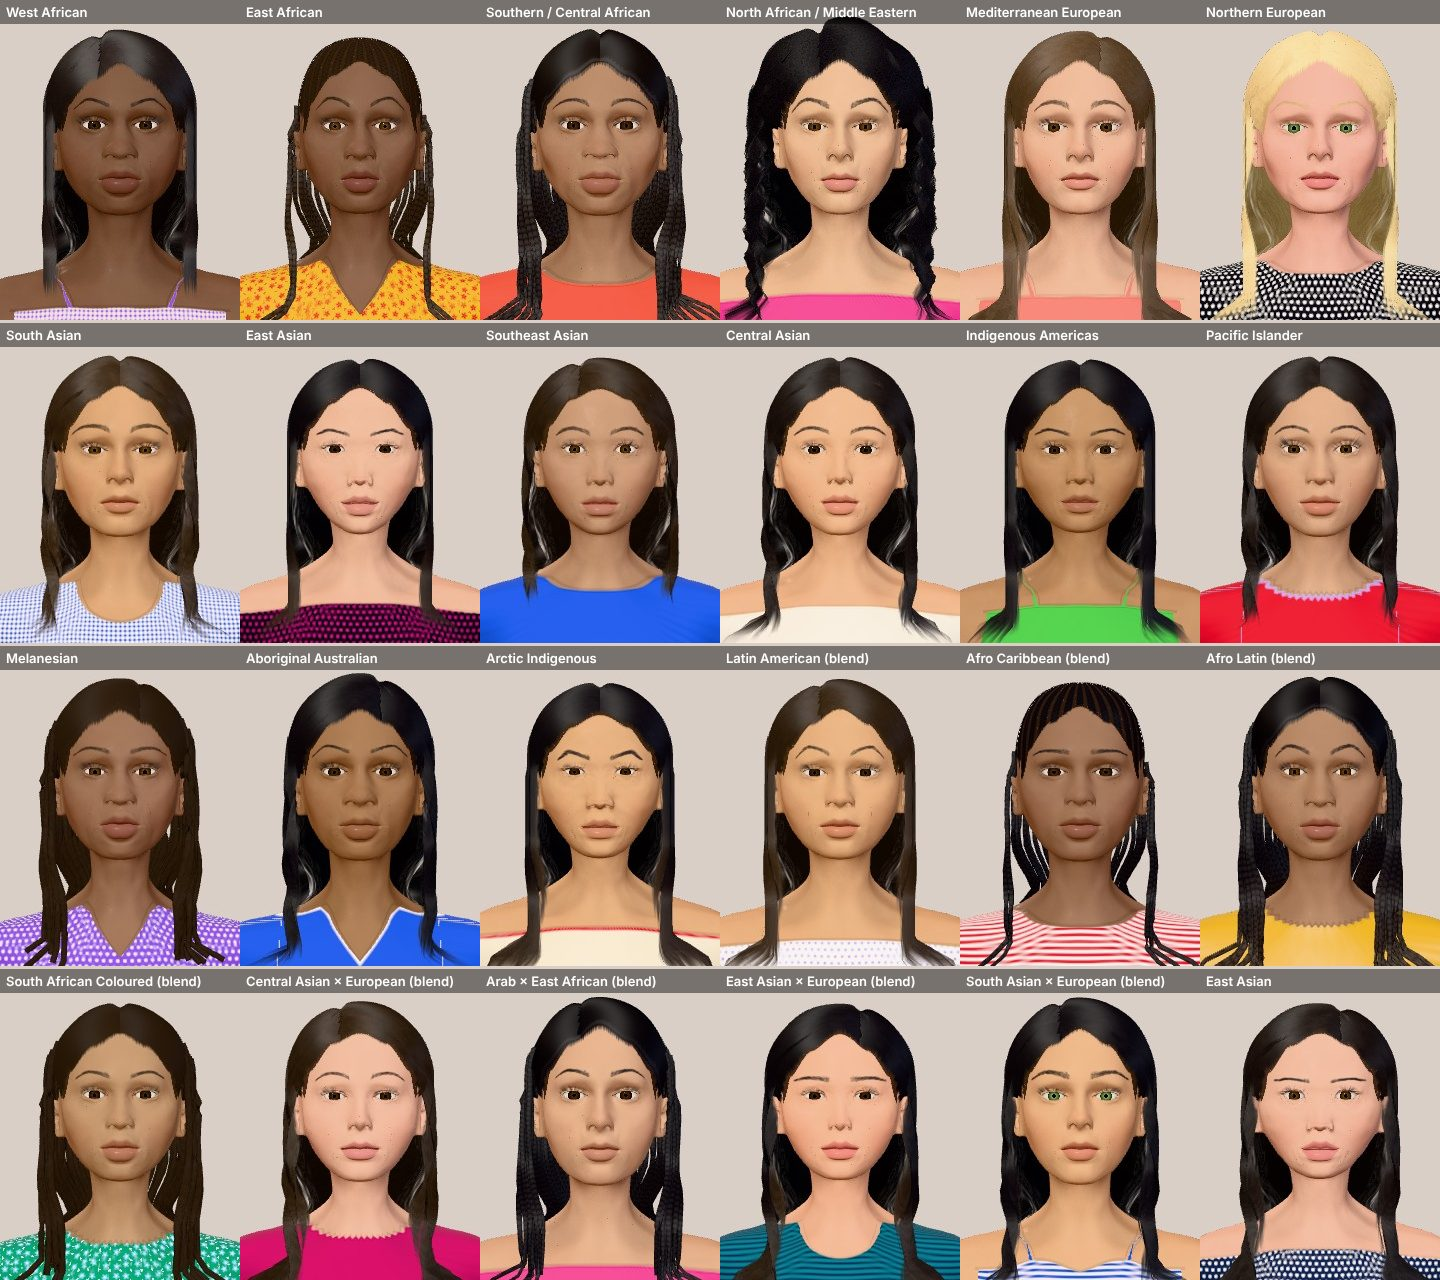
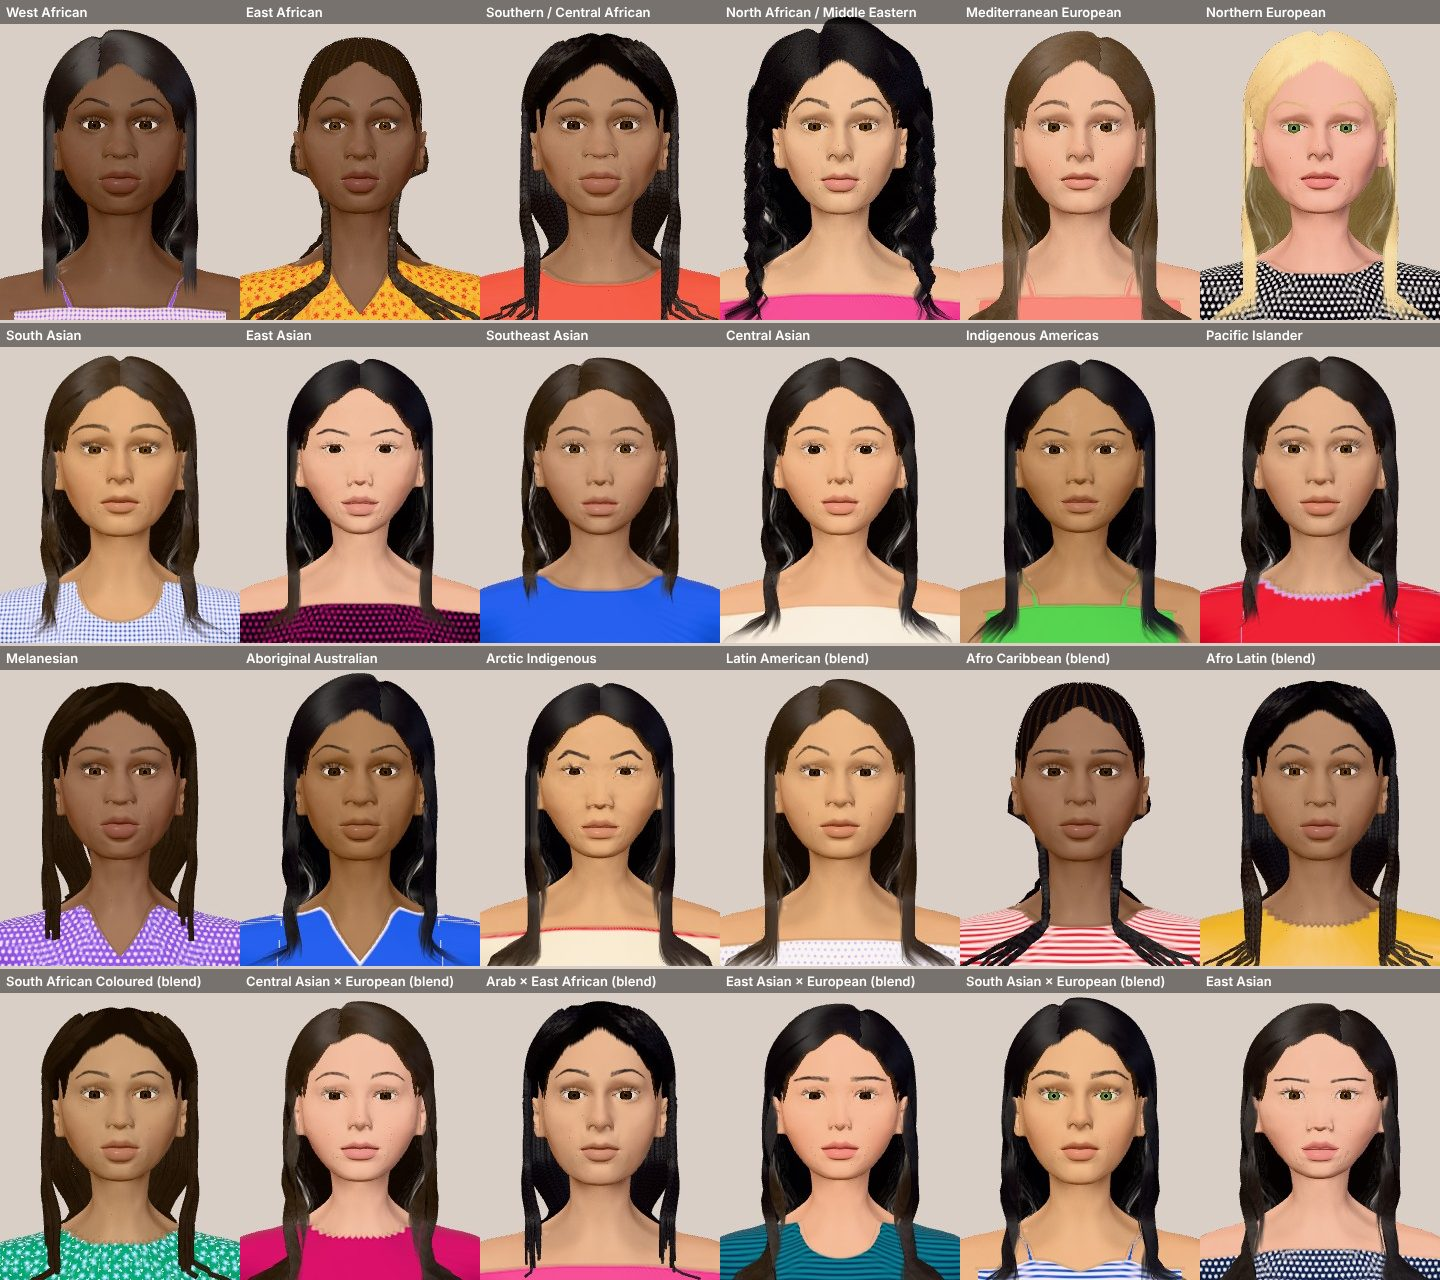
Braids grow from the head; the liner hugs the lashes; mascara shows at once
Box braids and locs now grow from the scalp in rows, from the parting down
to the nape. They lie along the head before falling: the front rows sweep
over the temples beside the face, the higher braids lie over the lower
ones, and each has its own thickness, length and sway. The parts between
them are matte. Cornrow braids carry on from the cornrows at the back of
the head; the side ones come round behind the ears and over the
shoulders. They no longer start at ear level like tacked-on extensions.

Tool audit, playing each tool with the mouse in the game:
- Liner traced along the lash line: points that slipped onto the eyeball
  were dropped, so almost nothing showed (5 points in 2 pieces). The liner
  and pencil now keep to the lid's edge within 45 % of the eye's radius,
  so the same trace draws one unbroken line.
- Mascara: it worked, but one coat barely showed. The wand now reaches the
  width of its brush, and one coat takes the lashes 80 % of the way to the
  colour, 16 % longer and 55 % thicker.
- The brush, highlighter, pencil, lipstick, gems and lenses all showed
  their stroke as expected.

The render smoke test now checks both: the liner along the lashes is one
line, and one mascara sweep coats most lashes visibly. Regenerated the face
gallery.

Claude-Session: https://claude.ai/code/session_01FZ9butgyM9YBJYy1FmJfim

diff --git a/src/face/hair.js b/src/face/hair.js
@@ -151,7 +151,7 @@ function shellRadius(frame, sh, theta, y) {
 // it moves either in front of the shoulder (front strands) or behind it (back strands), never into the
 // face or body.
 const SPLIT = 1.85; // strands hanging further back than this fall behind the shoulders
-function drapePath(frame, sh, { theta0, theta1 = theta0, y0, yTurn = y0, length, gap, wave, steps }) {
+function drapePath(frame, sh, { theta0, theta1 = theta0, y0, yTurn = y0, length, gap, wave, steps, lie = gap * 0.3 }) {
   const pts = [];
   const back = Math.cos(theta1) < Math.cos(SPLIT);
   let r = 0;
@@ -168,7 +168,7 @@ function drapePath(frame, sh, { theta0, theta1 = theta0, y0, yTurn = y0, length,
     let theta = sgn * a;
     if (wave) theta += wave.twist * Math.sin(y * wave.freq * 0.5 + wave.phase);
     const head = frame.radius(theta, y) + Math.max(gap, y < -1.05 ? 0.08 : 0);
-    const shell = sh ? shellRadius(frame, sh, theta, y) + gap * 0.3 : 0;
+    const shell = sh ? shellRadius(frame, sh, theta, y) + lie : 0;
     // over the shell the strand follows it; once hanging it only ever moves outwards
     r = Math.max(head, shell, over < 1 ? 0 : r);
     const w = wave ? wave.amp * Math.sin(y * wave.freq + wave.phase) * smooth(0, 0.3, j / steps) : 0;
@@ -401,30 +401,53 @@ export class Hair {
         break;
       }
       case 'box-braids': case 'locs': {
+        // Every braid (or loc) grows from its own box of scalp, in rows from the parting at the top of the head down to
+        // the nape, lies along the head as real ones do, then falls: the front rows sweep from the parting over the
+        // temples and fall beside her face, the rest run down the sides and back. Braids from higher rows lie over
+        // the lower ones. Each has its own thickness, length and sway.
         const braid = h.style === 'box-braids';
-        const sh = skullShell(frame, { top: 0.09, side: 0.1, back: 0.1 });
-        hood(frame, capB, sh.c, sh.R, hl, { seed, bumpy: 0.01, lift: 0.012, rise: 1.0, wideSoft: 0.25, flowAt: fromPart(xPart), groove: partGroove(xPart), pixelMask: true });
-        this.add(capB, braid ? HAIR_MODE.braid : HAIR_MODE.loc, colours, { seed, hairline: hl });
-        const n = braid ? 74 : 56, length = (braid ? 2.8 : 2.65) * len;
-        for (let k = 0; k < n; k++) {
-          const layer = k % 3;
-          const theta = mix(thetaFront - 0.05, 2 * Math.PI - thetaFront + 0.05, (k + rng.next() * 0.6) / n);
-          const ys = 0.5 + rng.range(-0.05, 0.12) - layer * 0.05;
-          const path = drapePath(frame, sh, { theta0: theta, y0: ys, length: length * rng.range(0.9, 1.05), gap: 0.03 + layer * 0.045, wave: { amp: 0.015, freq: 5, twist: 0.015, phase: rng.next() * 6 }, steps: 18 });
-          tube(b, path, braid ? 0.032 : 0.042, 6, braid ? 0.55 : 0.8);
+        const sh = skullShell(frame, { top: 0.05, side: 0.06, back: 0.06 });
+        // under the braids, the scalp's parts and the braids' roots: matte and in shadow
+        hood(frame, capB, sh.c, sh.R, hl, { seed, bumpy: 0.01, lift: 0.004, rise: 1.0, wideSoft: 0.25, flowAt: fromPart(xPart), groove: partGroove(xPart), pixelMask: true });
+        const shade = (c) => c.map((v) => v * 0.45);
+        this.add(capB, braid ? HAIR_MODE.braid : HAIR_MODE.loc, { root: shade(colours.root), mid: shade(colours.mid), tip: shade(colours.tip) }, { seed, hairline: hl, shine: 0.15 });
+        const length = (braid ? 2.8 : 2.65) * len, R0 = braid ? 0.028 : 0.036;
+        const top = frame.top - 0.08, rows = braid ? 8 : 6;
+        for (let row = 0; row < rows; row++) {
+          const f = row / (rows - 1); // 0: at the parting, 1: at the nape
+          const y0 = mix(top, -0.1, f ** 1.2);
+          const n = Math.round((braid ? 24 : 16) * (0.75 + 0.5 * Math.sin(Math.PI * Math.min(f + 0.2, 1))));
+          for (let k = 0; k < n; k++) {
+            // around the head from one side of the parting to the other, the back included
+            const u = (k + 0.5 + rng.range(-0.3, 0.3)) / n, side = u < 0.5 ? 1 : -1, v = side > 0 ? u * 2 : (1 - u) * 2; // v: 0 at the front, 1 at the back
+            // (the front of each row starts at the hairline: at the parting on top, behind the ear at the nape)
+            const theta0 = side * mix(mix(0.12, 1.85, f ** 1.3) + xPart * side * 0.6 * (1 - f), Math.PI, v);
+            // the front of the top rows falls beside her face; further back each braid falls about where it grows
+            const theta1 = side * Math.max(thetaFront + 0.08 + 0.1 * f, mix(Math.abs(theta0), Math.PI, 0.25 * (1 - v)) + rng.range(-0.08, 0.08));
+            const path = drapePath(frame, sh, {
+              theta0, theta1, y0, yTurn: Math.min(y0 - 0.12, mix(0.3, -0.2, f)), length: length * rng.range(0.88, 1.06) - (top - y0) * 0.6,
+              gap: 0.022 + (1 - f) * 0.05, lie: R0 * (1.1 + 1.6 * (1 - f)), wave: { amp: 0.012, freq: 4 + rng.next() * 2, twist: 0.012, phase: rng.next() * 6 }, steps: 48,
+            });
+            tube(b, path, R0 * rng.range(0.85, 1.15), 8, braid ? 0.5 : 0.8);
+          }
         }
         this.add(b, braid ? HAIR_MODE.braid : HAIR_MODE.loc, colours, { seed, shine: braid ? 0.8 : 0.4 });
         break;
       }
       case 'cornrow-braids': {
-        // cornrows running back over the scalp, ending in braids that hang behind and over the shoulders
+        // cornrows running back over the scalp; at the back of the head each row carries on as a braid. Most hang
+        // down her back; the side ones come round behind the ears and fall over her shoulders
         cap(frame, hg, hl, capB, { thick: () => 0.018, flowAt: combedBack, minMask: 0.05, alphaEdge: 0.35 });
         this.add(capB, HAIR_MODE.cornrows, colours, { seed });
-        const n = 26, length = 2.7 * len;
+        const n = 28, length = 2.6 * len;
         for (let k = 0; k < n; k++) {
-          const theta = mix(1.55, 2 * Math.PI - 1.55, (k + rng.next() * 0.5) / n);
-          const path = drapePath(frame, null, { theta0: theta, y0: rng.range(0.0, 0.3), length: length * rng.range(0.92, 1.04), gap: 0.04, wave: { amp: 0.012, freq: 5, twist: 0.01, phase: rng.next() * 6 }, steps: 18 });
-          tube(b, path, 0.03, 6, 0.55);
+          const u = (k + 0.5 + rng.range(-0.25, 0.25)) / n, side = u < 0.5 ? 1 : -1, v = side > 0 ? u * 2 : (1 - u) * 2; // v: 0 at the sides, 1 at the middle of the back
+          const theta0 = side * mix(2.0, Math.PI, v), forward = v < 0.45, w = v / 0.45;
+          const path = drapePath(frame, null, {
+            theta0, theta1: forward ? side * mix(1.45, 2.0, w) : theta0, y0: mix(0.1, -0.25, v) + rng.range(-0.04, 0.04), yTurn: forward ? mix(-0.8, -1.0, w) : undefined,
+            length: length * rng.range(0.9, 1.04), gap: 0.03, wave: { amp: 0.012, freq: 5, twist: 0.01, phase: rng.next() * 6 }, steps: 36,
+          });
+          tube(b, path, 0.034 * rng.range(0.9, 1.1), 8, 0.5);
         }
         this.add(b, HAIR_MODE.braid, colours, { seed, shine: 0.8 });
         break;

diff --git a/src/makeup/applicator.js b/src/makeup/applicator.js
@@ -15,6 +15,7 @@ import { colourById } from './palette.js';
 import { hexToLinear, IRIS } from '../face/colors.js';
 
 const STEP_PX = 2; // interpolation step between pointer samples (CSS pixels)
+const LID_TOOLS = new Set(['liner', 'pencil']); // fine lines drawn along the lashes
 
 export class Applicator {
   // view: FaceView (renderer, head geometry, eyes, lashes, camera)
@@ -106,8 +107,10 @@ export class Applicator {
   sample(g, x, y) {
     let q = null;
     if (g.painter) {
-      // the eyeball, skin under the outfit and empty space never take paint
-      const hit = this.picker.pick(x, y);
+      // the eyeball, skin under the outfit and empty space never take paint; the liner and the pencil, traced along
+      // the lashes, keep to the lid's edge where the pointer slips just onto the eye
+      let hit = this.picker.pick(x, y);
+      if (hit?.kind === 'eye' && LID_TOOLS.has(g.tool)) hit = this.picker.lidNear(x, y, hit.eye);
       if (hit?.kind === 'skin' && !this.view.garment?.covers(hit.ref)) q = hit.ref.map(toQ);
     } else {
       const p = this.picker.onPlane(x, y, this.view.lashes.zPlane);

diff --git a/src/makeup/picker.js b/src/makeup/picker.js
@@ -111,6 +111,20 @@ export class Picker {
     return best;
   }
 
+  // The lid's edge nearest a point on an eyeball: the first skin met moving straight out from the eye's centre on
+  // screen, within 45 % of the eye's radius (so a line traced along the lashes hugs the lid, but a stroke across the
+  // middle of the eye finds nothing). Returns a skin hit, or null.
+  lidNear(x, y, eye) {
+    const m = this.eyes.meshes[eye === 'left' ? 0 : 1], c = m.position;
+    const [cx, cy] = this.project(c), [rx, ry] = this.project([c[0] + m.scale[0], c[1], c[2]]);
+    const r = Math.hypot(rx - cx, ry - cy), dx = x - cx, dy = y - cy, l = Math.hypot(dx, dy) || 1;
+    for (let k = 0.5; k <= r * 0.45; k += 0.5) {
+      const h = this.pick(x + (dx / l) * k, y + (dy / l) * k);
+      if (h?.kind === 'skin') return h;
+    }
+    return null;
+  }
+
   // whatever is nearest under the pointer: an eyeball (in the eye opening) or skin
   pick(x, y) {
     const s = this.skin(x, y), e = this.eyeHit(x, y);

diff --git a/src/makeup/tools.js b/src/makeup/tools.js
@@ -20,7 +20,9 @@ export const TOOLS = {
   // liquid liner: a fine, crisp, opaque line that tapers at both ends (wings and flicks)
   liner: { radius: 0.012, edge: 0.88, spacing: 0.15, pass: 0.95, step: 0.006, taper: { start: 0.02, end: 0.07, min: 0.3 } },
   lip: { radius: 0.03, edge: 0.5, spacing: 0.25, pass: 0.55, step: 0.008 },
-  mascara: { reach: 0.022, coat: 0.55, length: 0.08, lengthMax: 1.35, width: 0.25, widthMax: 2.0, step: 0.01 },
+  // (owner, 20 October 2026: a coat must show at a glance: the wand is as wide as its brush, and one coat takes the
+  // lashes most of the way to the mascara's colour, a sixth longer and half again as thick; a second coat adds more)
+  mascara: { reach: 0.032, coat: 0.8, length: 0.16, lengthMax: 1.5, width: 0.55, widthMax: 2.4, step: 0.01 },
 };
 // tools that paint the skin (the mascara wand works on lashes; face gems are placed one at a time)
 export const SURFACE_TOOLS = new Set(['brush', 'glow', 'pencil', 'liner', 'lip']);

diff --git a/docs/MAKEUP.md b/docs/MAKEUP.md
@@ -36,7 +36,7 @@ part of every face at any screen size.
 | Detail pencil | Brows, soft eyeliner, fine lines, face art | 1.1 mm radius | Crisp (falloff from 70 % of the radius) | 85 % | 85 / 98 / 100 / 100 % | 0.7 mm |
 | Liquid liner | Crisp liner, wings and flicks, graphic lines | 1.2 mm radius, tapering to 30 % at both ends | Very crisp (from 88 %) | 95 % | 95 / 100 / 100 / 100 % | 0.6 mm |
 | Lip applicator | Lipstick and gloss (anywhere on the face; off-lip marks are allowed) | 3 mm radius | Medium (from 50 %) | 55 % | 55 / 80 / 91 / 98 % | 0.8 mm |
-| Mascara wand | Lashes | Touches lashes within 2.2 mm of its path | – | Each stroke adds one coat to each lash it touches: colour moves 55 % towards the mascara, length +8 % (up to 135 % of natural), thickness +25 % (up to 2×) | – | 1 mm |
+| Mascara wand | Lashes | Touches lashes within 3.2 mm of its path (the width of its brush) | – | Each stroke adds one coat to each lash it touches: colour moves 80 % towards the mascara, length +16 % (up to 150 % of natural), thickness +55 % (up to 2.4×), so one coat shows at a glance (owner, 20 October 2026) | – | 1 mm |
 | Face gems | Rhinestones, drops, hearts, stars, flowers and pearls | One gem per tap, 8–13.5 mm across | – | – | – | One point per gem |
 
 - **Dabs.** A stroke places dabs every 20 % (brush, highlighter), 30 % (pencil), 15 % (liner) or 25 % (lip) of
@@ -70,7 +70,10 @@ part of every face at any screen size.
   they're drawn thinning to the tip. Live painting and replay feed it the same points, so both draw the same dabs.
 - **Where paint goes.** The brush, highlighter, pencil, liner and lip applicator paint any visible skin of the face, ears, neck and
   chest. There are no "correct" regions, so asymmetric and off-lip marks are allowed. The eyeball, the skin under
-  the outfit and empty space take no paint: the pen lifts there and puts down again when the pointer returns.
+  the outfit and empty space take no paint: the pen lifts there and puts down again when the pointer returns. The
+  pencil and the liner, traced along the lashes, keep to the lid's edge where the pointer slips just onto the eye
+  (within 45 % of the eye's radius), so a line along the lash line is one unbroken line; a stroke across the middle
+  of the eye still draws nothing there.
   Strokes pass under hair to the skin. The mascara wand works only on lashes. A wand stroke that touches no lash
   is not stored.
 - **Face gems.** Select a gem and tap the skin: the gem sticks there, facing out from the skin and upright to the

diff --git a/docs/FACES.md b/docs/FACES.md
@@ -182,7 +182,13 @@ Building blocks:
   straight down from the widest part of the skull and over the ears instead of hugging it like a cap. Below the
   jaw they fall in front of or behind the shoulders. Two face-framing pieces leave the parting, sweep over the
   corners of the forehead and fall beside the cheeks.
-- **Tubes** for box braids, locs and cornrow braids; a thin **cap** layer for the cornrows on the scalp.
+- **Tubes** for box braids, locs and cornrow braids; a thin **cap** layer for the cornrows on the scalp. Braids
+  and locs grow from the head (owner, 20 October 2026: they must never look tacked on). Each grows from its own
+  section of scalp, in rows from the parting at the top of the head down to the nape. It lies along the head, then
+  falls. The front rows sweep from the parting over the temples and fall beside the face. Braids from higher rows
+  lie over the lower ones. Each braid has its own thickness, length and sway. Under them the scalp's parts are
+  matte and in shadow. Cornrow braids carry on from the cornrows at the back of the head. Most hang down the back,
+  and the side ones come round behind the ears and fall over the shoulders.
 - **Two-pass drawing.** Hair is drawn once for its solid parts (writing depth) and again for its soft fringes
   (blended, not writing depth), so nearly transparent edges never punch see-through holes in the hair behind.
 
